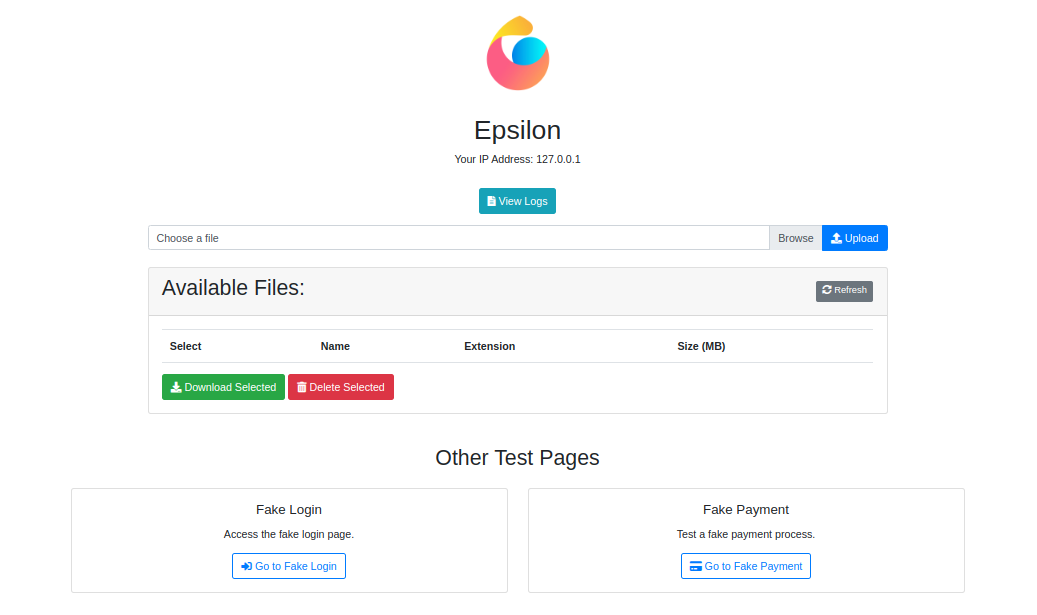
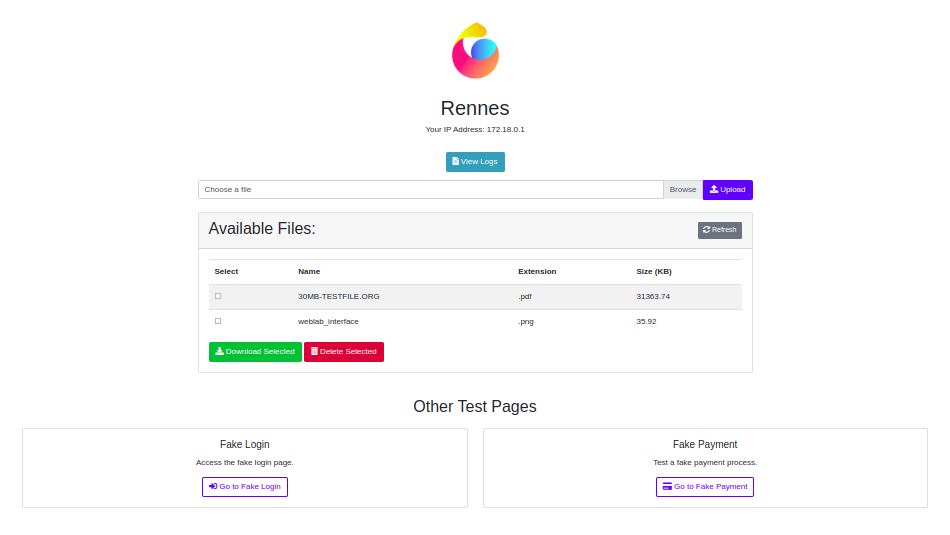
Minor corrections

diff --git a/web_app/templates/index.html b/web_app/templates/index.html
@@ -59,7 +59,7 @@
                                     <th>Select</th>
                                     <th>Name</th>
                                     <th>Extension</th>
-                                    <th>Size (MB)</th>
+                                    <th>Size (KB)</th>
                                 </tr>
                                 </thead>
                                 <tbody>
